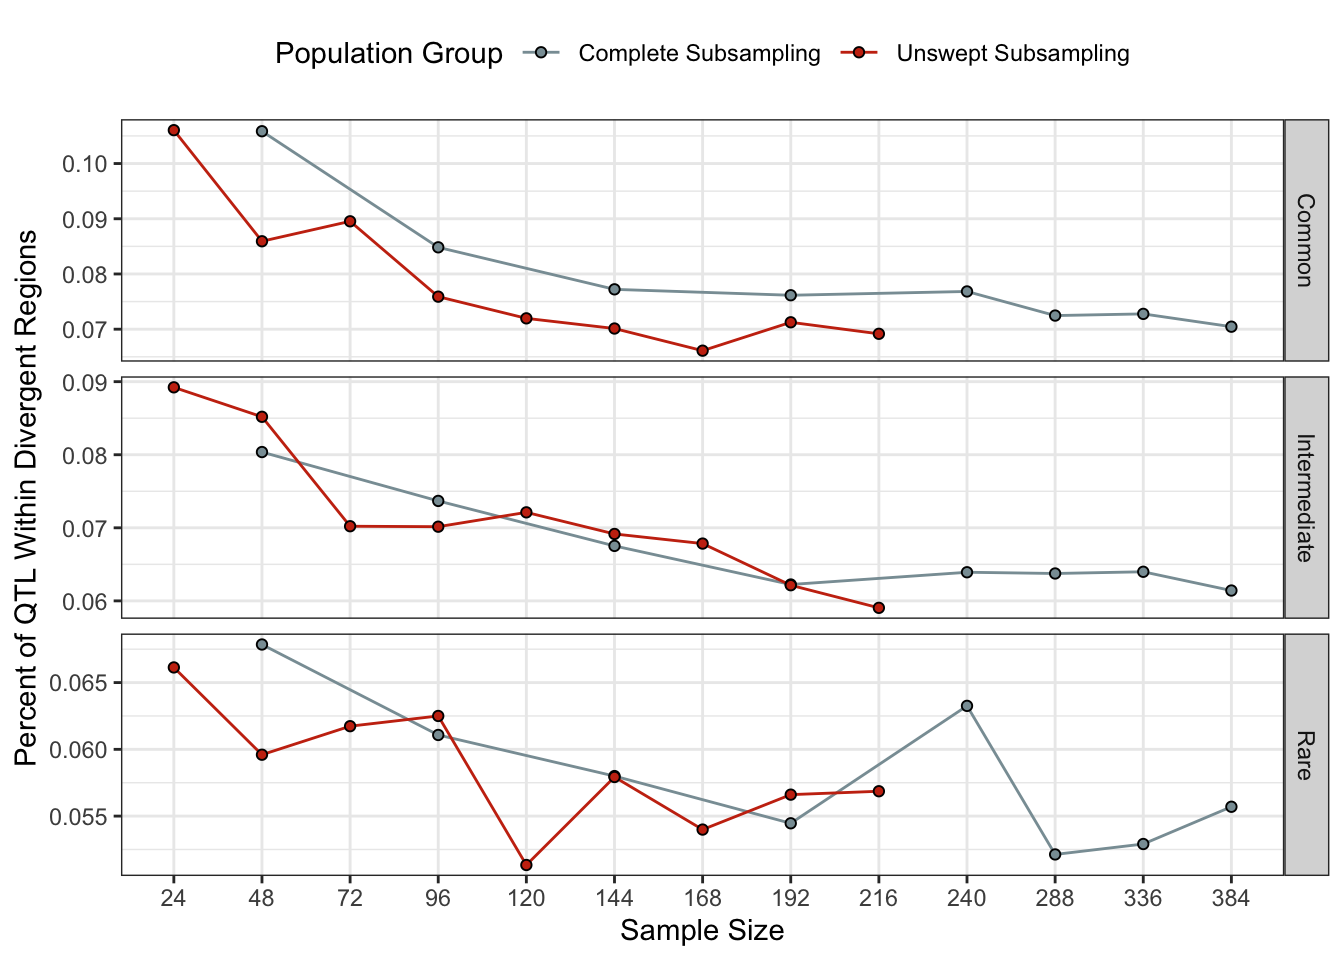
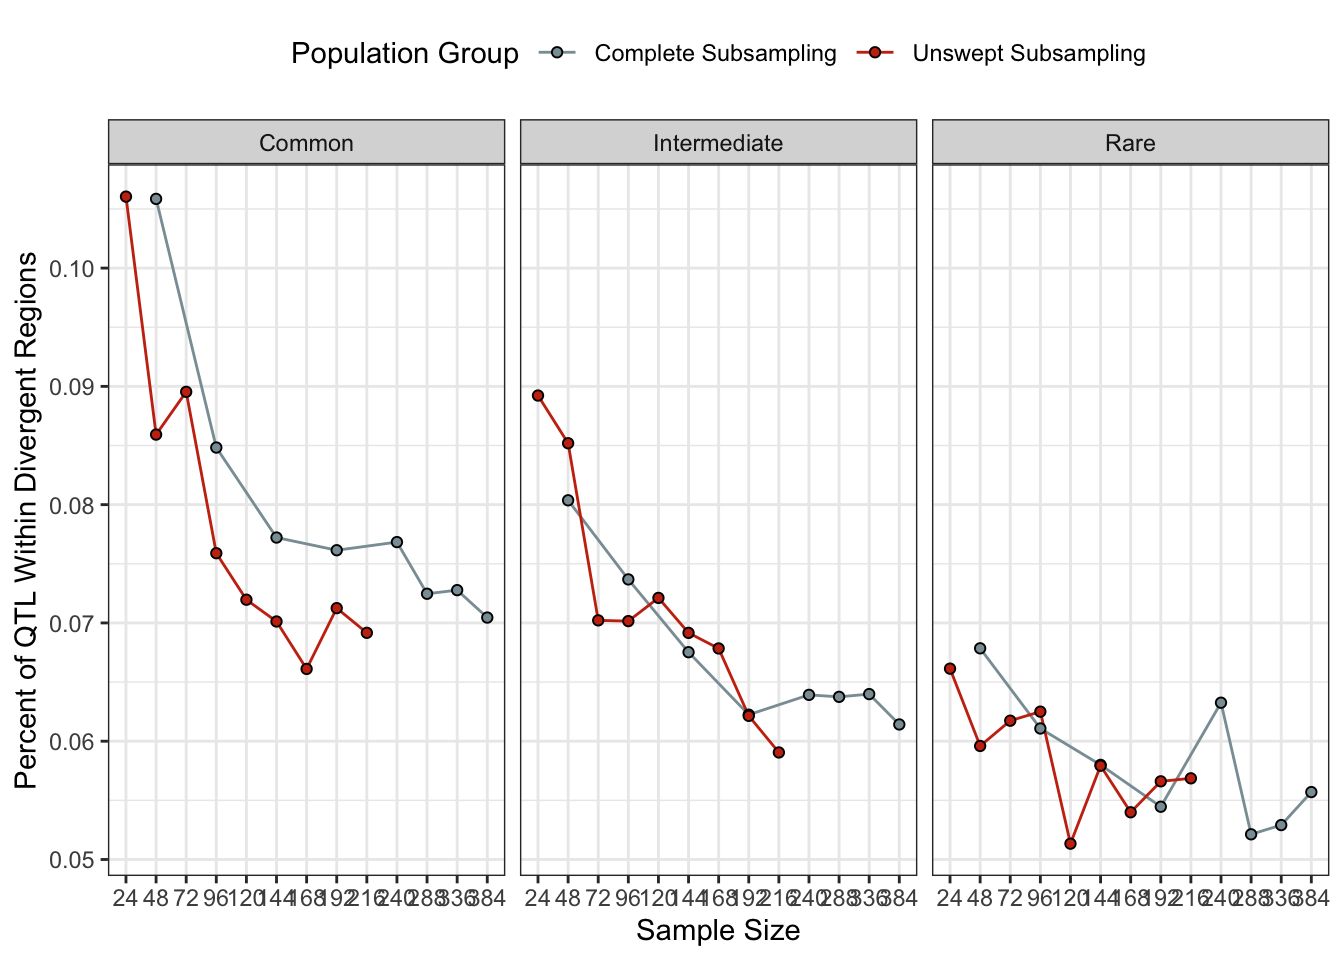
Build site.

Changed region(s): [[0.0, 0.125, 1.0, 1.0], [0.1875, 0.0312, 0.8438, 0.0625]]

diff --git a/docs/population.comparison.html b/docs/population.comparison.html
@@ -538,16 +538,16 @@ relative
 <div class="panel panel-default">
 <div class="panel-heading">
 <p class="panel-title">
-<a data-toggle="collapse" data-parent="#workflowr-checks" href="#strongRepositoryversionstrongahrefhttpsgithubcomsamwidmayerNemaScanPerformancetree46b8bbb7effa6dc75a5c21372f009cbaec4dd36btargetblank46b8bbba"> <span class="glyphicon glyphicon-ok text-success" aria-hidden="true"></span> <strong>Repository version:</strong> <a href="https://github.com/sam-widmayer/NemaScan_Performance/tree/46b8bbb7effa6dc75a5c21372f009cbaec4dd36b" target="_blank">46b8bbb</a> </a>
+<a data-toggle="collapse" data-parent="#workflowr-checks" href="#strongRepositoryversionstrongahrefhttpsgithubcomsamwidmayerNemaScanPerformancetreec501bcca6892afc77d5dc4bcf09669473227e8actargetblankc501bcca"> <span class="glyphicon glyphicon-ok text-success" aria-hidden="true"></span> <strong>Repository version:</strong> <a href="https://github.com/sam-widmayer/NemaScan_Performance/tree/c501bcca6892afc77d5dc4bcf09669473227e8ac" target="_blank">c501bcc</a> </a>
 </p>
 </div>
[2 lines of base64/hex data omitted]
 <div class="panel-body">
 <p>
 Great! You are using Git for version control. Tracking code development and connecting the code version to the results is critical for reproducibility.
 </p>
 <p>
-The results in this page were generated with repository version <a href="https://github.com/sam-widmayer/NemaScan_Performance/tree/46b8bbb7effa6dc75a5c21372f009cbaec4dd36b" target="_blank">46b8bbb</a>. See the <em>Past versions</em> tab to see a history of the changes made to the R Markdown and HTML files.
+The results in this page were generated with repository version <a href="https://github.com/sam-widmayer/NemaScan_Performance/tree/c501bcca6892afc77d5dc4bcf09669473227e8ac" target="_blank">c501bcc</a>. See the <em>Past versions</em> tab to see a history of the changes made to the R Markdown and HTML files.
 </p>
 <p>
 Note that you need to be careful to ensure that all relevant files for the analysis have been committed to Git prior to generating the results (you can use <code>wflow_publish</code> or <code>wflow_git_commit</code>). workflowr only checks the R Markdown file, but you know if there are other scripts or data files that it depends on. Below is the status of the Git repository when the results were generated:
@@ -557,7 +557,6 @@ Ignored files:
     Ignored:    .DS_Store
     Ignored:    .Rhistory
     Ignored:    analysis/.DS_Store
-    Ignored:    analysis/figure/
     Ignored:    code/.DS_Store
     Ignored:    data/.DS_Store
     Ignored:    data/.Rhistory
@@ -689,6 +688,40 @@ Message
 </tr>
 </thead>
 <tbody>
+<tr>
+<td>
+Rmd
+</td>
+<td>
+<a href="https://github.com/sam-widmayer/NemaScan_Performance/blob/c501bcca6892afc77d5dc4bcf09669473227e8ac/analysis/population.comparison.Rmd" target="_blank">c501bcc</a>
+</td>
+<td>
+Sam Widmayer
+</td>
+<td>
+2021-01-12
+</td>
+<td>
+tweak pct divergent QTL x sample.size plot
+</td>
+</tr>
+<tr>
+<td>
+html
+</td>
+<td>
+<a href="https://rawcdn.githack.com/sam-widmayer/NemaScan_Performance/dc9a8fc0b2c932a72079175f0009ce95cc421f90/docs/population.comparison.html" target="_blank">dc9a8fc</a>
+</td>
+<td>
+Sam Widmayer
+</td>
+<td>
+2021-01-12
+</td>
+<td>
+Build site.
+</td>
+</tr>
 <tr>
 <td>
 Rmd
@@ -1127,6 +1160,17 @@ Date
 <tbody>
 <tr>
 <td>
+<a href="https://github.com/sam-widmayer/NemaScan_Performance/blob/dc9a8fc0b2c932a72079175f0009ce95cc421f90/docs/figure/population.comparison.Rmd/unnamed-chunk-2-1.png" target="_blank">dc9a8fc</a>
+</td>
+<td>
+Sam Widmayer
+</td>
+<td>
+2021-01-12
+</td>
+</tr>
+<tr>
+<td>
 <a href="https://github.com/sam-widmayer/NemaScan_Performance/blob/151daba372e61b21dc10ed2fa6d614e89f376142/docs/figure/population.comparison.Rmd/unnamed-chunk-2-1.png" target="_blank">151daba</a>
 </td>
 <td>
@@ -1185,6 +1229,17 @@ Date
 </tr>
 </thead>
 <tbody>
+<tr>
+<td>
+<a href="https://github.com/sam-widmayer/NemaScan_Performance/blob/dc9a8fc0b2c932a72079175f0009ce95cc421f90/docs/figure/population.comparison.Rmd/unnamed-chunk-2-2.png" target="_blank">dc9a8fc</a>
+</td>
+<td>
+Sam Widmayer
+</td>
+<td>
+2021-01-12
+</td>
+</tr>
 <tr>
 <td>
 <a href="https://github.com/sam-widmayer/NemaScan_Performance/blob/151daba372e61b21dc10ed2fa6d614e89f376142/docs/figure/population.comparison.Rmd/unnamed-chunk-2-2.png" target="_blank">151daba</a>
@@ -1246,6 +1301,17 @@ Date
 </tr>
 </thead>
 <tbody>
+<tr>
+<td>
+<a href="https://github.com/sam-widmayer/NemaScan_Performance/blob/dc9a8fc0b2c932a72079175f0009ce95cc421f90/docs/figure/population.comparison.Rmd/unnamed-chunk-2-3.png" target="_blank">dc9a8fc</a>
+</td>
+<td>
+Sam Widmayer
+</td>
+<td>
+2021-01-12
+</td>
+</tr>
 <tr>
 <td>
 <a href="https://github.com/sam-widmayer/NemaScan_Performance/blob/c91ea96647039b277ffe79abc8f4a63a45e80714/docs/figure/population.comparison.Rmd/unnamed-chunk-2-3.png" target="_blank">c91ea96</a>
@@ -1371,6 +1437,17 @@ Date
 <tbody>
 <tr>
 <td>
+<a href="https://github.com/sam-widmayer/NemaScan_Performance/blob/dc9a8fc0b2c932a72079175f0009ce95cc421f90/docs/figure/population.comparison.Rmd/unnamed-chunk-2-4.png" target="_blank">dc9a8fc</a>
+</td>
+<td>
+Sam Widmayer
+</td>
+<td>
+2021-01-12
+</td>
+</tr>
+<tr>
+<td>
 <a href="https://github.com/sam-widmayer/NemaScan_Performance/blob/151daba372e61b21dc10ed2fa6d614e89f376142/docs/figure/population.comparison.Rmd/unnamed-chunk-2-4.png" target="_blank">151daba</a>
 </td>
 <td>
@@ -1409,6 +1486,17 @@ Date
 <tbody>
 <tr>
 <td>
+<a href="https://github.com/sam-widmayer/NemaScan_Performance/blob/dc9a8fc0b2c932a72079175f0009ce95cc421f90/docs/figure/population.comparison.Rmd/unnamed-chunk-2-5.png" target="_blank">dc9a8fc</a>
+</td>
+<td>
+Sam Widmayer
+</td>
+<td>
+2021-01-12
+</td>
+</tr>
+<tr>
+<td>
 <a href="https://github.com/sam-widmayer/NemaScan_Performance/blob/151daba372e61b21dc10ed2fa6d614e89f376142/docs/figure/population.comparison.Rmd/unnamed-chunk-2-5.png" target="_blank">151daba</a>
 </td>
 <td>
@@ -1424,8 +1512,82 @@ Sam
 </div>
 <pre><code>`summarise()` regrouping output by &#39;strain_set&#39;, &#39;pop.size&#39;, &#39;population.group&#39;, &#39;Divergent.Region.Type&#39; (override with `.groups` argument)</code></pre>
 <p><img src="figure/population.comparison.Rmd/unnamed-chunk-2-6.png" width="672" style="display: block; margin: auto;" /></p>
+<p>
+<button type="button" class="btn btn-default btn-xs btn-workflowr btn-workflowr-fig" data-toggle="collapse" data-target="#fig-unnamed-chunk-2-6">
+Past versions of unnamed-chunk-2-6.png
+</button>
+</p>
+<div id="fig-unnamed-chunk-2-6" class="collapse">
+<div class="table-responsive">
+<table class="table table-condensed table-hover">
+<thead>
+<tr>
+<th>
+Version
+</th>
+<th>
+Author
+</th>
+<th>
+Date
+</th>
+</tr>
+</thead>
+<tbody>
+<tr>
+<td>
+<a href="https://github.com/sam-widmayer/NemaScan_Performance/blob/dc9a8fc0b2c932a72079175f0009ce95cc421f90/docs/figure/population.comparison.Rmd/unnamed-chunk-2-6.png" target="_blank">dc9a8fc</a>
+</td>
+<td>
+Sam Widmayer
+</td>
+<td>
+2021-01-12
+</td>
+</tr>
+</tbody>
+</table>
+</div>
+</div>
 <pre><code>`summarise()` regrouping output by &#39;pop.size&#39;, &#39;population.group&#39;, &#39;Divergent.Region.Type&#39; (override with `.groups` argument)</code></pre>
 <p><img src="figure/population.comparison.Rmd/unnamed-chunk-2-7.png" width="672" style="display: block; margin: auto;" /></p>
+<p>
+<button type="button" class="btn btn-default btn-xs btn-workflowr btn-workflowr-fig" data-toggle="collapse" data-target="#fig-unnamed-chunk-2-7">
+Past versions of unnamed-chunk-2-7.png
+</button>
+</p>
+<div id="fig-unnamed-chunk-2-7" class="collapse">
+<div class="table-responsive">
+<table class="table table-condensed table-hover">
+<thead>
+<tr>
+<th>
+Version
+</th>
+<th>
+Author
+</th>
+<th>
+Date
+</th>
+</tr>
+</thead>
+<tbody>
+<tr>
+<td>
+<a href="https://github.com/sam-widmayer/NemaScan_Performance/blob/dc9a8fc0b2c932a72079175f0009ce95cc421f90/docs/figure/population.comparison.Rmd/unnamed-chunk-2-7.png" target="_blank">dc9a8fc</a>
+</td>
+<td>
+Sam Widmayer
+</td>
+<td>
+2021-01-12
+</td>
+</tr>
+</tbody>
+</table>
+</div>
+</div>
 </div>
 <div id="performance" class="section level2">
 <h2>Performance</h2>
